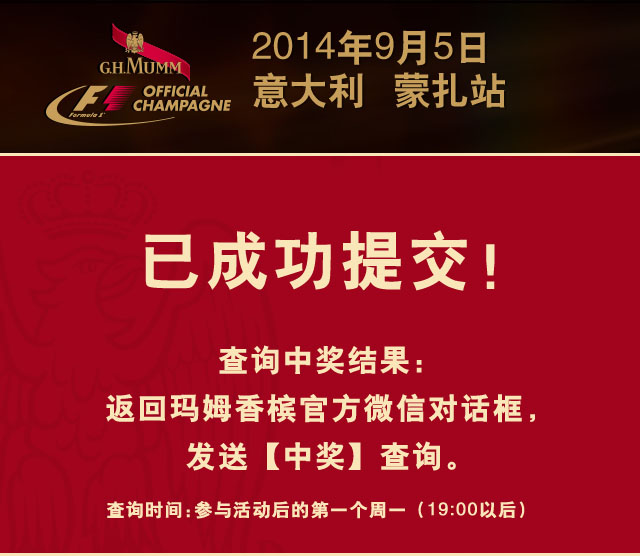
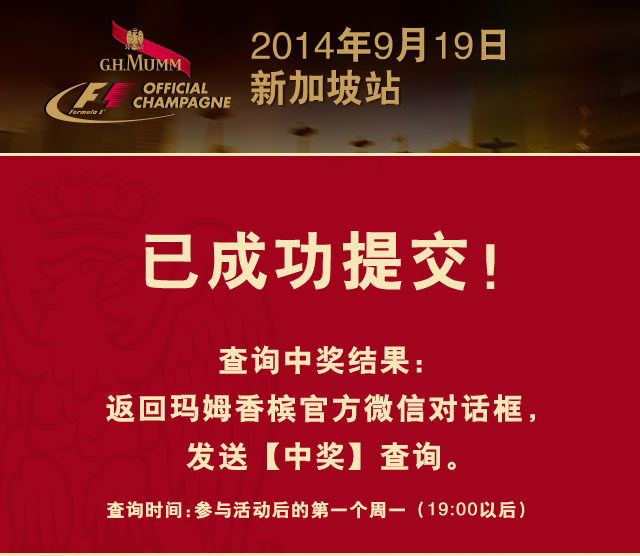
新加坡海滨湾

Changed region(s): [[0.0, 0.0306, 0.9375, 0.2752]]

diff --git a/src/info/schedule.html b/src/info/schedule.html
@@ -22,7 +22,7 @@
                 openid = "FakeId";
             }
             $("#join").unbind('click').bind("click", function() {
-                window.location.href = window.location.href.substring(0, window.location.href.lastIndexOf('/')) + '/../submit_201409051013.html?openid=' + openid;
+                window.location.href = window.location.href.substring(0, window.location.href.lastIndexOf('/')) + '/../submit_201409191027.html?openid=' + openid;  // TODO
 //                window.location.href = window.location.href.substring(0, window.location.href.lastIndexOf('/')) + '/../cashlottery/over.html?openid=' + openid;
             });
         });
@@ -31,10 +31,10 @@
 
 <body>
 <div class="app_main">
-    <img class="bg_pic" src="../images/schedulebg_201409051025.jpg">
+    <img class="bg_pic" src="../images/schedulebg_201409191027.jpg">
     <a id="join" class="btn_exp btn_sc06"></a>
     <!--
-    <a href="../submit_201409051013.html" class="btn_exp btn_sc06"></a>
+    <a href="../submit_201409191027.html" class="btn_exp btn_sc06"></a>
     -->
 </div>
 </body>

diff --git a/src/info/schedule_test.html b/src/info/schedule_test.html
@@ -22,7 +22,7 @@
                 openid = "FakeId";
             }
             $("#join").unbind('click').bind("click", function() {
-                window.location.href = window.location.href.substring(0, window.location.href.lastIndexOf('/')) + '/../submit_201409051013.html?openid=' + openid;
+                window.location.href = window.location.href.substring(0, window.location.href.lastIndexOf('/')) + '/../submit_201409161656.html?openid=' + openid;
 //                window.location.href = window.location.href.substring(0, window.location.href.lastIndexOf('/')) + '/../cashlottery/over.html?openid=' + openid;
             });
         });
@@ -31,10 +31,10 @@
 
 <body>
 <div class="app_main">
-    <img class="bg_pic" src="../images/schedulebg_201409051025.jpg">
+    <img class="bg_pic" src="../images/schedulebg.test.jpg">
     <a id="join" class="btn_exp btn_sc06"></a>
     <!--
-    <a href="../submit_201409051013.html" class="btn_exp btn_sc06"></a>
+    <a href="../submit_201409191027.html" class="btn_exp btn_sc06"></a>
     -->
 </div>
 </body>

diff --git a/src/info/instruction.html b/src/info/instruction.html
@@ -27,7 +27,7 @@
                 openid = "FakeId";
             }
             $("#join").unbind('click').bind("click", function() {
-                window.location.href = window.location.href.substring(0, window.location.href.lastIndexOf('/')) + '/../submit_201409051013.html?openid=' + openid;
+                window.location.href = window.location.href.substring(0, window.location.href.lastIndexOf('/')) + '/../submit_201409191027.html?openid=' + openid; // TODO
 //                window.location.href = window.location.href.substring(0, window.location.href.lastIndexOf('/')) + '/../cashlottery/over.html?openid=' + openid;
             });
         });
@@ -45,7 +45,7 @@
 <!--
 <div class="app_main">
     <img class="bg_pic" src="../images/instructionbg.jpg">
-    <a href="../submit_201409051013.html" class="btn_exp btn_xq05"></a>
+    <a href="../submit_201409191027.html" class="btn_exp btn_xq05"></a>
 </div>
 -->
 </body>

diff --git a/src/index.html b/src/index.html
@@ -28,7 +28,7 @@
 <body>
 <div class="app_main">
     <img class="bg_pic" src="images/indexbg.jpg">
-    <!--<a href="submit_201409051013.html" class="btn_exp btn_ind04"></a>-->
+    <!--<a href="submit_201409191027.html" class="btn_exp btn_ind04"></a>-->
     <a id="enter" class="btn_exp btn_ind04"></a>
 
 </div>

diff --git a/src/index.php b/src/index.php
@@ -192,10 +192,10 @@ class BeyondWechatApplication
                     $resultStr = $this->checkGame($fromUsername, $toUsername);
                     echo $resultStr;
                     break;
-//                case "测试赛程YiKg":
-//                    $resultStr = $this->testSchedule($fromUsername, $toUsername);
-//                    echo $resultStr;
-//                    break;
+                case "测试赛程YiKg":
+                    $resultStr = $this->testSchedule($fromUsername, $toUsername);
+                    echo $resultStr;
+                    break;
                 case "赛程":
                     $resultStr = $this->checkSchedule($fromUsername, $toUsername);
                     echo $resultStr;
@@ -208,22 +208,22 @@ class BeyondWechatApplication
                     $resultStr = $this->wrong($fromUsername, $toUsername);
                     echo $resultStr;
                     break;
-//                case "测试中奖YiKg":
-//                    $resultStr = $this->testGuess($fromUsername, $toUsername);
-//                    echo $resultStr;
-//                    break;
-//                case "测试未中奖YiKg":
-//                    $resultStr = $this->testWrong($fromUsername, $toUsername);
-//                    echo $resultStr;
-//                    break;
-//                case "over":
-//                    $resultStr = $this->gameOver($fromUsername, $toUsername);
-//                    echo $resultStr;
-//                    break;
-//				case "YiKg":
-//                    $resultStr = $this->visit($fromUsername, $toUsername);
-//                    echo $resultStr;
-//                    break;
+                case "测试中奖YiKg":
+                    $resultStr = $this->testGuess($fromUsername, $toUsername);
+                    echo $resultStr;
+                    break;
+                case "测试未中奖YiKg":
+                    $resultStr = $this->testWrong($fromUsername, $toUsername);
+                    echo $resultStr;
+                    break;
+                case "over":
+                    $resultStr = $this->gameOver($fromUsername, $toUsername);
+                    echo $resultStr;
+                    break;
+				case "YiKg":
+                    $resultStr = $this->visit($fromUsername, $toUsername);
+                    echo $resultStr;
+                    break;
                 default :
                     $msgType = "text";
                     $contentStr = $this->responseDefaultText($fromUsername);
@@ -283,8 +283,8 @@ class BeyondWechatApplication
     }
 
 	 private function visit($fromUsername, $toUsername) {
-        // $url = 'http://beyonddev1.sinaapp.com/index.html?openid='.$fromUsername;
-        $url = 'http://beyonddev1.sinaapp.com/submit_201409051013.html?openid='.$fromUsername;
+        // $url = 'http://beyonddev1.sinaapp.com/index.html?openid='.$fromUsername; // TODO
+        $url = 'http://beyonddev1.sinaapp.com/submit_201409191027.html?openid='.$fromUsername;
         $record=array(
             'title' =>'参与玛姆香槟F1竞猜，尽享礼遇！',
             'description' =>'即刻加入我们的竞猜吧！玛姆香槟预祝每位 人生玩家 获得玩家好礼...',
@@ -324,13 +324,13 @@ class BeyondWechatApplication
 
     public function checkGuess($fromUsername, $toUsername) {
         $bingoMessage = array(
-            'title' =>'2014 F1 比利时 斯帕站竞猜结果',
+            'title' =>'2014 F1 意大利 蒙扎站竞猜结果',
             'description' =>'激动么？！竞猜结果马上要公布！MUMM香槟即将开启！',
             'picUrl' => 'http://beyonddev1.sinaapp.com/images/m_result.jpg',
             'url' =>'http://beyonddev1.sinaapp.com/cashlottery/bingo.html?openid='.$fromUsername
         );
         $missMessage = array(
-            'title' =>'2014 F1 比利时 斯帕站竞猜结果',
+            'title' =>'2014 F1 意大利 蒙扎站竞猜结果',
             'description' =>'激动么？！竞猜结果马上要公布！MUMM香槟即将开启！',
             'picUrl' => 'http://beyonddev1.sinaapp.com/images/m_result.jpg',
             'url' =>'http://beyonddev1.sinaapp.com/cashlottery/miss.html?openid='.$fromUsername
@@ -355,13 +355,13 @@ class BeyondWechatApplication
 
     public function testGuess($fromUsername, $toUsername) {
         $bingoMessage = array(
-            'title' =>'2014 F1 意大利 蒙扎站竞猜结果',
+            'title' =>'2014 F1 新加坡站竞猜结果',
             'description' =>'激动么？！竞猜结果马上要公布！MUMM香槟即将开启！',
             'picUrl' => 'http://beyonddev1.sinaapp.com/images/m_result.jpg',
             'url' =>'http://beyonddev1.sinaapp.com/cashlottery/bingo_test.html?openid='.$fromUsername
         );
         $missMessage = array(
-            'title' =>'2014 F1 意大利 蒙扎站竞猜结果',
+            'title' =>'2014 F1 新加坡站竞猜结果',
             'description' =>'激动么？！竞猜结果马上要公布！MUMM香槟即将开启！',
             'picUrl' => 'http://beyonddev1.sinaapp.com/images/m_result.jpg',
             'url' =>'http://beyonddev1.sinaapp.com/cashlottery/miss_test.html?openid='.$fromUsername
@@ -384,7 +384,7 @@ class BeyondWechatApplication
 
     public function wrong($fromUsername, $toUsername) {
         $missMessage = array(
-            'title' =>'2014 F1 比利时 斯帕站竞猜结果',
+            'title' =>'2014 F1 意大利 蒙扎站竞猜结果',
             'description' =>'激动么？！竞猜结果马上要公布！MUMM香槟即将开启！',
             'picUrl' => 'http://beyonddev1.sinaapp.com/images/m_result.jpg',
             'url' =>'http://beyonddev1.sinaapp.com/cashlottery/miss.html?openid='.$fromUsername
@@ -403,7 +403,7 @@ class BeyondWechatApplication
 
     public function testWrong($fromUsername, $toUsername) {
         $missMessage = array(
-            'title' =>'2014 F1 意大利 蒙扎站竞猜结果',
+            'title' =>'2014 F1 新加坡站竞猜结果',
             'description' =>'激动么？！竞猜结果马上要公布！MUMM香槟即将开启！',
             'picUrl' => 'http://beyonddev1.sinaapp.com/images/m_result.jpg',
             'url' =>'http://beyonddev1.sinaapp.com/cashlottery/miss_test.html?openid='.$fromUsername

diff --git a/src/services/CustomerService.php b/src/services/CustomerService.php
@@ -27,7 +27,8 @@ $customerService->makeGuess($requestObj);
 
 class CustomerService {
     public function makeGuess($requestObj) {
-        $game = AppConfig::GAME;
+//        $game = AppConfig::GAME; // TODO
+        $game = AppConfig::GAME_TEST;
         $customer = null;
         $openid = $requestObj->openid;
         if (null === $openid || 'null' === $openid || '' === trim($openid)) {

diff --git a/src/services/config/AppConfig.php b/src/services/config/AppConfig.php
@@ -11,5 +11,5 @@ namespace app;
 
 class AppConfig {
     const GAME = "Italy蒙扎"; // "Belgium斯帕";
-    const GAME_TEST = "Italy蒙扎";
+    const GAME_TEST = "Singapore滨海湾"; // "Italy蒙扎";
 } 
